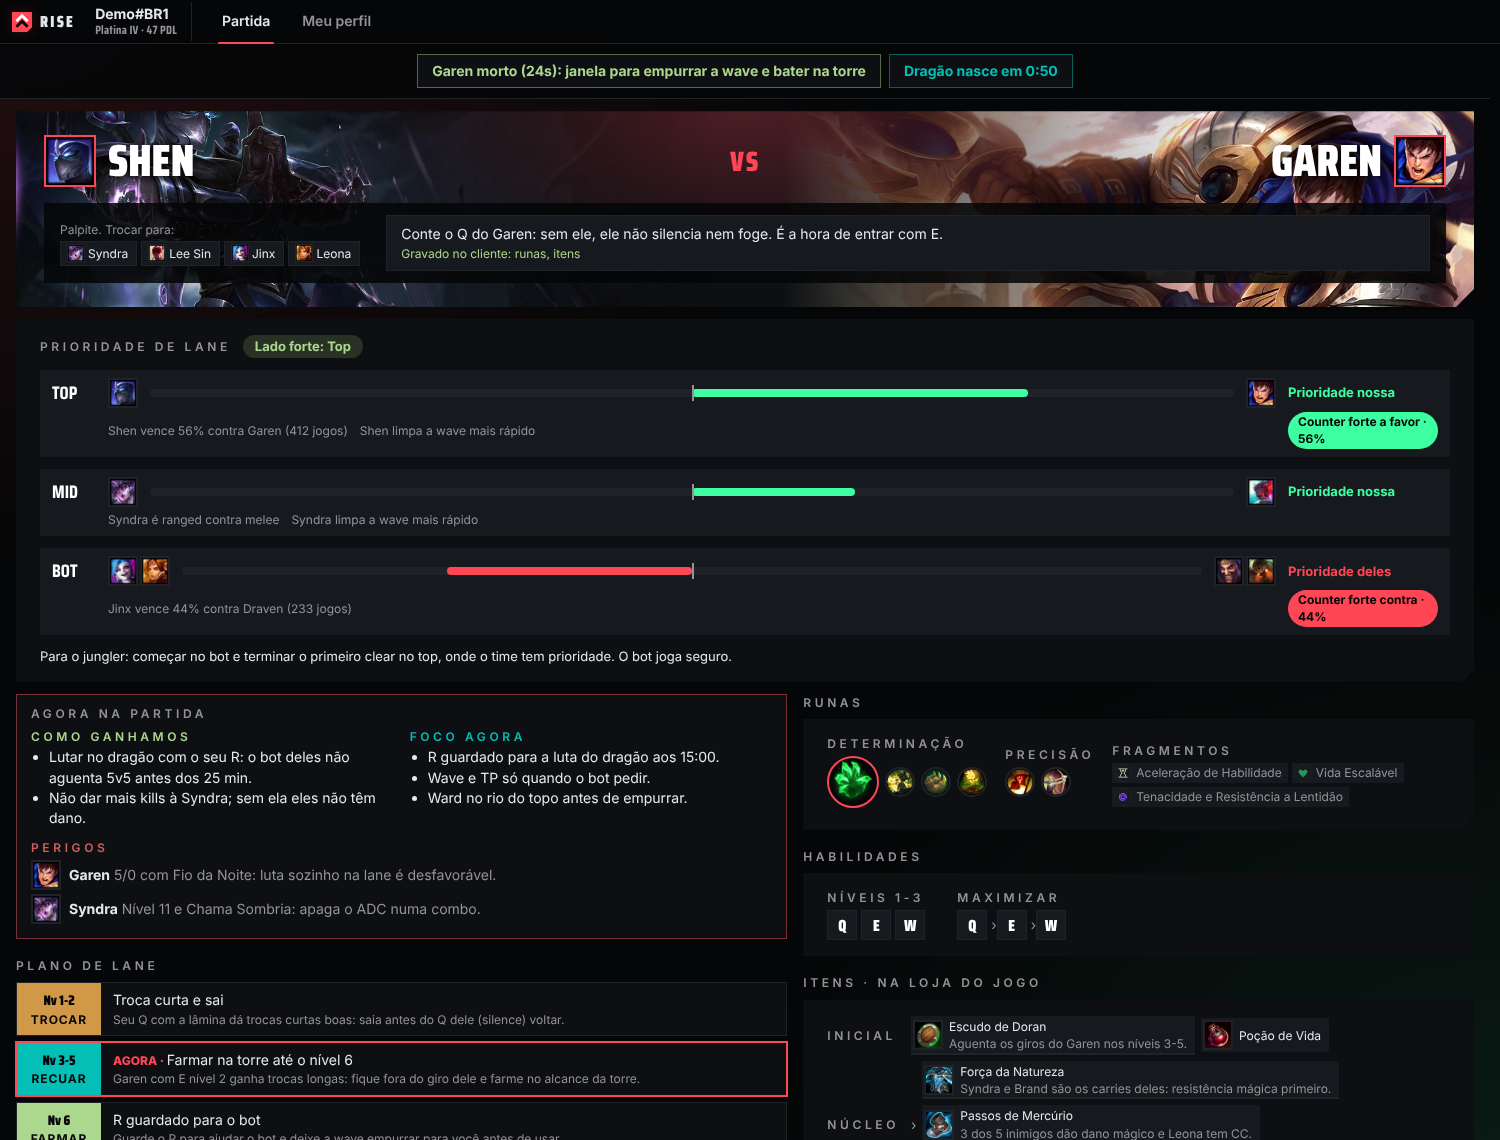
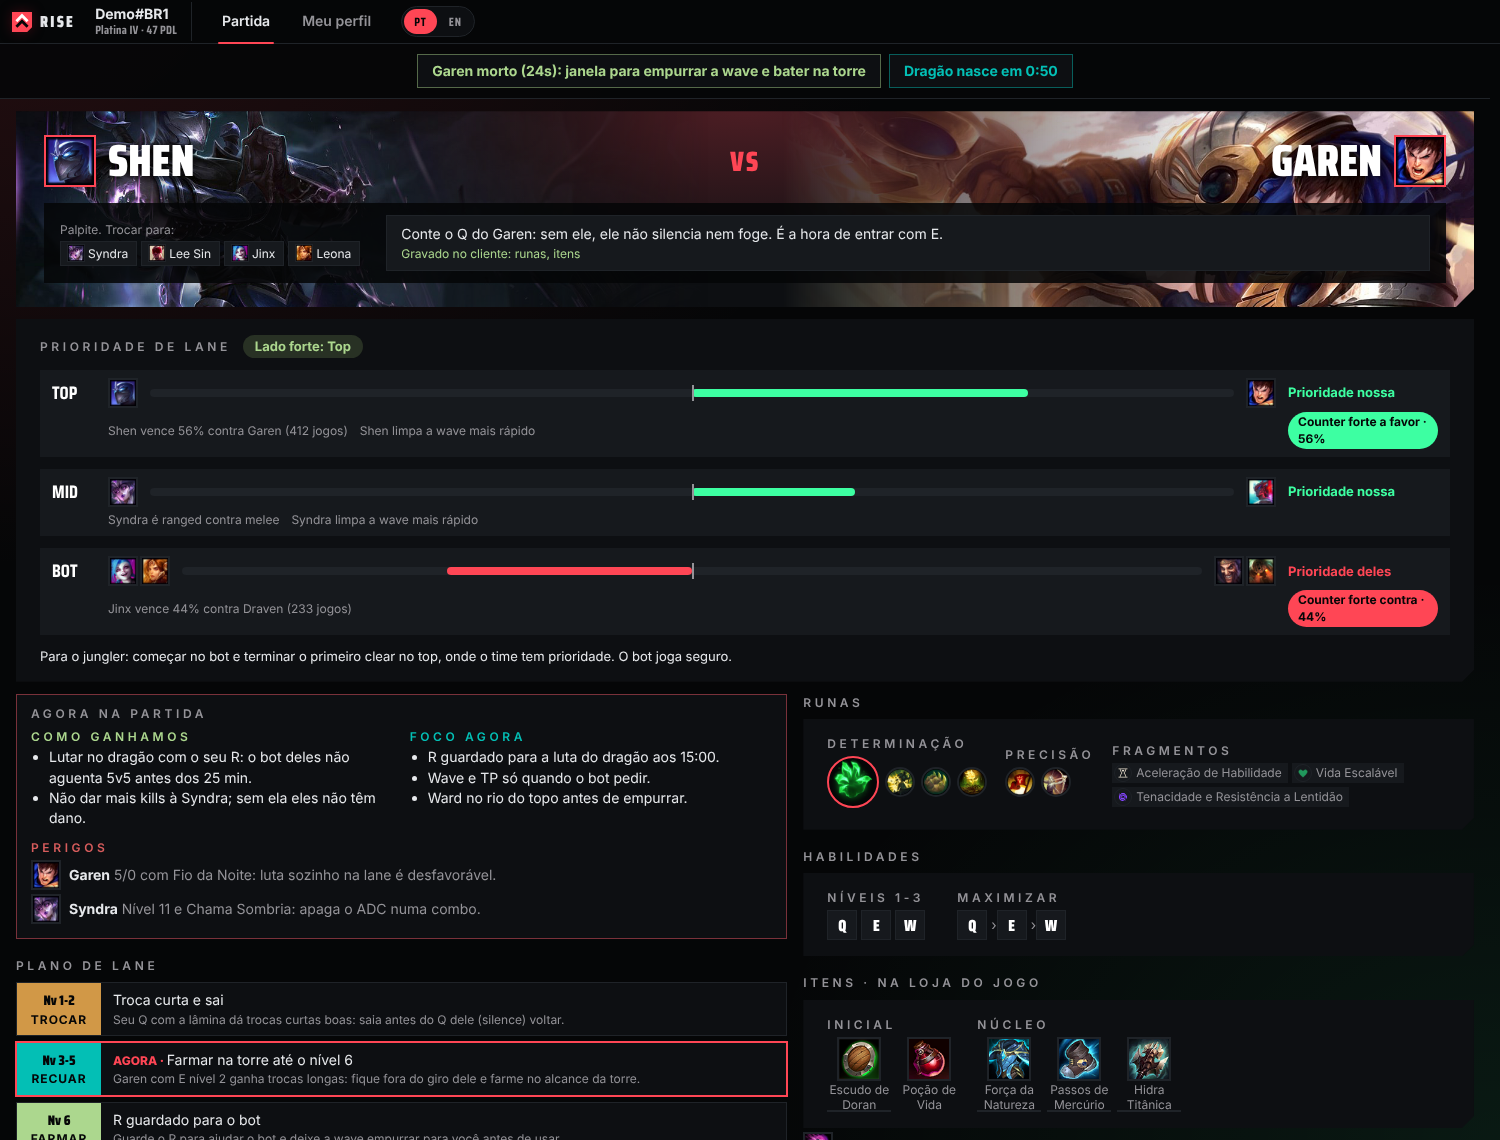
Prints novos e idiomas PT e EN na página (lucaskarsten/lol-companion#322)
Claude-Session: https://claude.ai/code/session_01A9kCdaGhy6rGBCzv5NSGdF

Changed region(s): [[0.5213, 0.8904, 0.8893, 1.0], [0.2453, 0.0, 0.3067, 0.0307]]

diff --git a/index.html b/index.html
@@ -83,6 +83,7 @@
     <div class="card"><h3>1. Open with the League client</h3><p>Rise runs on the player’s computer next to the League client and reads only the player’s own session.</p></div>
     <div class="card"><h3>2. Champion select</h3><p>Lane priority and hard counters, then a plan for the lane with runes, items, spells and skill order, built from aggregated ranked data. Rise writes the suggested rune page and item set to the client; the player can change or ignore them.</p></div>
     <div class="card"><h3>3. During the game</h3><p>Short reminders using only what the player can already see in the game: objective timers and the next planned item.</p></div>
+    <div class="card"><h3>Languages</h3><p>Portuguese (Brazil) and English, picked at the top of the app. Summoner’s Rift only: top and jungle today, the other lanes next.</p></div>
     <div class="card"><h3>4. After the game</h3><p>A review of the player’s own match (deaths, CS, gold and XP against the lane opponent) and one focus for the next game.</p></div>
   </div>
 </section>
@@ -107,7 +108,7 @@
     <figure><img src="img/perfil.png" alt="Profile with Mérito, its personal level, recent grades and achievements" width="1500" height="1140" loading="lazy"><figcaption><b>Profile</b>Mérito, recent grades, records and achievements.</figcaption></figure>
     <figure><img src="img/coach.png" alt="Coach with the theme of the week, lessons and exercises" width="1500" height="1140" loading="lazy"><figcaption><b>Coach</b>The theme of the week, from the player’s own games.</figcaption></figure>
   </div>
-  <p class="notice">Screenshots use a fictional demo account (Demo#BR1).</p>
+  <p class="notice">Screenshots use a fictional demo account (Demo#BR1), with the app in Portuguese. Rise is available in Portuguese (Brazil) and English: the PT | EN switch at the top changes the app and the coach texts.</p>
 </section>
 
 <section>
